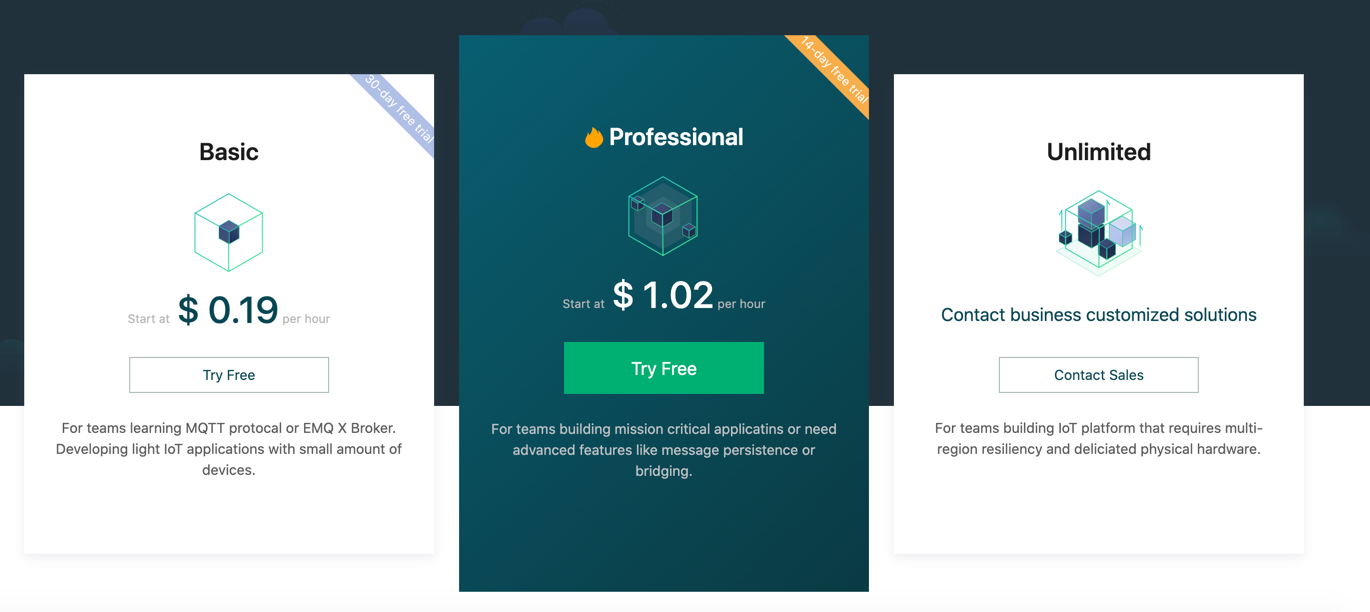
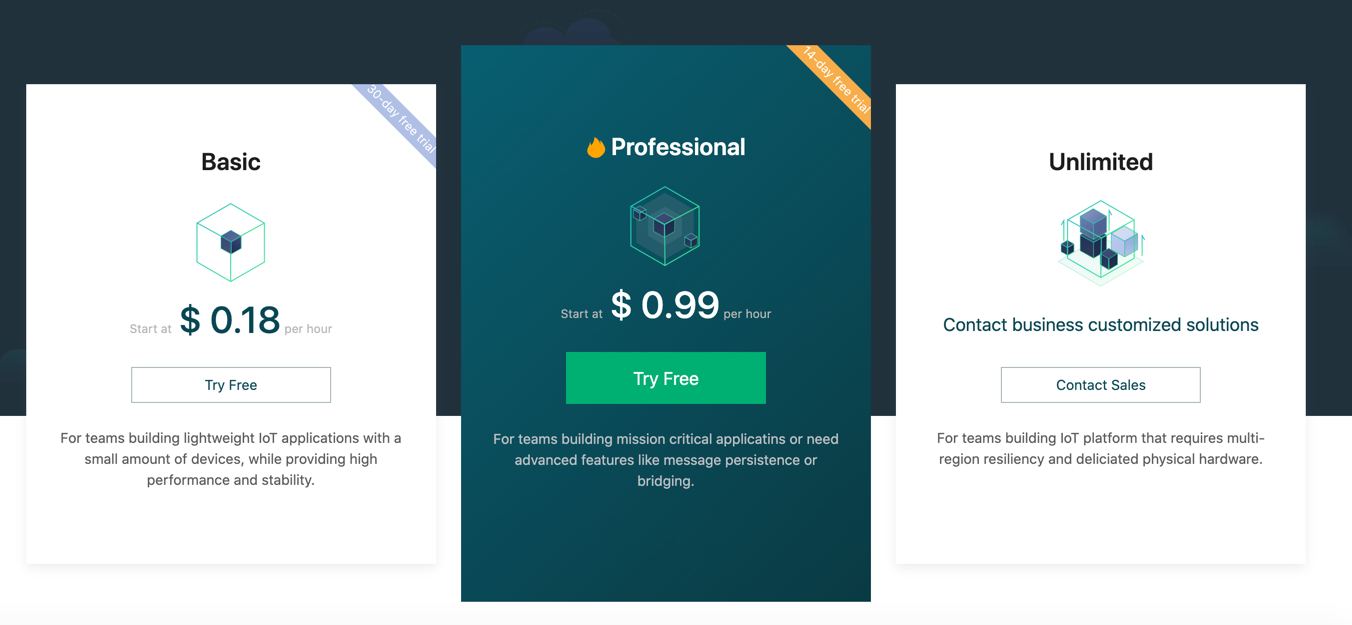
fix(docs): fix format stuff

diff --git a/en_US/README.md b/en_US/README.md
@@ -1,6 +1,6 @@
 # EMQ X Cloud Product Description
 
-EMQ X Cloud is an MQTT messaging middleware product for the IoT domain from EMQ. As the world's first fully managed MQTT 5.0 public cloud service, EMQ X Cloud provides a one-stop O&M colocation and a unique isolated environment for MQTT messaging services. In the era of the Internet of Everything, EMQ X Cloud can help you quickly build industry applications for the IoT domain and easily realize the collection, transmission, computation, and persistence of IoT data.
+EMQ X Cloud is an MQTT messaging middleware product for the IoT domain from EMQ. As the world's first fully managed MQTT 5.0 public cloud service, EMQ X Cloud provides a one-stop O&M colocation and a unique isolated environment for MQTT messaging services. In the era of the Internet of Everything, EMQ X Cloud can help you quickly build industry applications for the IoT domain and easily collect, transmit, compute, and persist IoT data.
 
 ![emqx_cloud](https://static.emqx.net/images/b7f3e53a4f6a789c698e5af8476d3e51.png)
 
@@ -18,13 +18,13 @@ In this model, EMQ X Cloud provides MQTT services to connect massive devices and
 
 ### *Data Collection*
 
-EMQ X Cloud supports device data on the cloud. With the support of a massive Topic and rule engine, data collection, filtering, transformation, calculation, and persistence can be achieved with low code.
+EMQ X Cloud supports device data on the cloud. With the support of massive topics and rule engine, data collection, filtering, transformation, calculation, and persistence can be achieved with low code.
 
 ![data collection](./_assets/data_collection.png)
 
 In this model, the MQTT service provided by EMQ X Cloud enables data collection, computation, and persistence. This model is suitable for IoT applications with data collection and persistence requirements, such as: in industrial scenarios, each IoT sensor collects real-time data to the edge gateway, uploads the data to the MQTT server through the edge gateway, and then the rule engine triggers data filtering, transformation, and simple calculation, and forwards the final result to other services or persists to the target database. EMQ X Cloud provides a variety of access solutions for different functionalities of the network, industrial, and edge devices, and supports more than 70 industrial protocols.
 
-### *Hybrid model*
+### *Hybrid Model*
 
 EMQ X Cloud provides MQTT services to support hybrid applications with two-way communication and data collection models. Through capabilities such as shared subscriptions and rule engines, data is persisted while flowing from object to object and from object to application.
 
@@ -32,7 +32,7 @@ EMQ X Cloud provides MQTT services to support hybrid applications with two-way c
 
 In this model, the MQTT service provided by EMQ X Cloud not only bridges the gap between device and device, device and application but also persists the required data so that non-real-time applications can subsequently make use of the acquired data. Typical of these applications are artificial intelligence applications where the data acquired by the terminal needs to be sent to the cloud, where the computational model running in the cloud is calculated and fed back to the terminal, such as item or face recognition applications. At the same time, a copy of the data needs to be persisted in the database for subsequent offline training and improvement of the AI computational model.
 
-## Product Plan
+## Product Plans
 
 EMQ X Cloud comes in three plans, each with multiple specifications, and we support the deployment of your own fully managed MQTT service on the world's leading public clouds
 
@@ -56,25 +56,25 @@ Most public cloud IoT platforms have multiple usage restrictions, including the 
 
 Charge per cluster instance and message traffic, not message count, and unlimited API and rule engine usage, so costs remain clear and manageable as your business scales.
 
-### Fully Managed Operations and Maintenance
+### Fully managed operations and maintenance
 
 Create a highly available MQTT clusters in minutes and start accessing devices immediately, followed by up to 7*24 technical support and operations by our global service support team and EMQ experts for the entire life cycle.
 
-### High Availability and Data Security
+### High availability and data security
 
 EMQ X Cloud Professional and Unlimited plans use a highly redundant cluster architecture to ensure high availability of services and guarantee your data security and business stability with a unique isolated environment. Each deployment cluster has its public IP, dedicated VPC network, independent EMQ X servers, and database servers, which is more secure and reliable.
 
 ### Multiple protocol access and private customization extensions
 
-Supports multiple communication protocols including MQTT, MQTT-SN, CoAP, LwM2M, and private TCP protocols, covering various industry applications; can customize private functions according to your special usage scenarios to fully meet business needs.
+Supports multiple communication protocols including MQTT, MQTT-SN, CoAP, LwM2M, and private TCP protocols, covering various industry applications. It can customize private functions according to your special usage scenarios to fully meet business needs.
 
 ### Capacity estimation and scaling
 
 Capacity is automatically estimated by the number of connections and message throughput, and the scaling plan is made through close monitoring, and the cluster size can be smoothly adjusted with the business scale.
 
-### Flexible Data Flow Solution
+### Flexible data flow solution
 
-EMQ X Cloud Professional and Unlimited plans support real-time pre-processing of device event and message data, and storage to more than ten kinds of databases and messaging systems such as MySQL, Kafka, InfluxDB, etc. on the cloud.
+EMQ X Cloud Professional and Unlimited plans support real-time pre-processing of device event and message data, and storage to more than ten kinds of databases and messaging systems such as MySQL, Kafka, InfluxDB on the cloud.
 
 ## Product Capabilities
 
@@ -82,7 +82,7 @@ EMQ X Cloud, a fully managed EMQ X access platform service, provides device acce
 
 ### Device Access
 
-Supports massive device connections to the cloud, providing stable and reliable bi-directional communication capabilities between devices and devices, and between devices and applications.
+Supports massive device connections to the cloud, providing stable and reliable two-way communication capabilities between devices and devices, and between devices and applications.
 
 - Support standard MQTT protocol (including MQTT over WebSocket), using the standard MQTT client library to connect to the cloud
 - Support CoAP, MQTT-SN, LwM2M protocol, and private TCP protocol access to meet the needs of various systems access to the cloud
@@ -134,7 +134,7 @@ EMQ X Cloud Basic and Professional plans provide rich REST APIs that allow users
 
 ### Message Storage (Rule Engine)
 
-EMQ X Cloud supports the use of a rule engine to configure rules for processing and responding to devise messages and events.
+EMQ X Cloud supports the use of the rule engine to configure rules for processing and responding to devise messages and events.
 
 The rule engine not only provides a clear and flexible "configuration-based" business integration solution, but also simplifies the business development process, improves user ease of use, and reduces the coupling between business systems and EMQ X.
 
@@ -142,7 +142,7 @@ The rule engine not only provides a clear and flexible "configuration-based" bus
 
 - **Send data to HTTP services and other MQTT services**:
   - Send data to Web services
-  - bridge data to MQTT Broker
+  - Bridge data to MQTT Broker
 
 **Professional and Unlimited plans only**
 
@@ -184,11 +184,11 @@ EMQ X Cloud has fewer usage restrictions than the public cloud IoT Hub platform.
 
 | **Limitation Description**         | **EMQ X**                                             | **Public Cloud IoT Hub**                     |
 | -------------------- | ----------------------------------------------------- | -------------------------------------- |
-| The maximum number of simultaneous online long connections  | Depends on specifications, choose from 1000-1000W+, more than 20W please send tickets for application| 1W-50W                                 |
-| Number of connections established per second     | 1W                                                    | 200-500                                |
+| The maximum number of simultaneous online long connections  | Depends on specifications, choose from 1000-10M+, more than 200K please send tickets for application| 10K-500K                                 |
+| Number of connections established per second     | 10K                                                   | 200-500                                |
 | Number of topics subscribed to by a single client   | Unlimited                                                  | 10-100                                 |
-| Single-client subscription requests per second  | Unlimited                                                  | 10-1W                                  |
-| Single-client upstream message speed | Unlimited                                                  | QoS0：30 messages/sec；QoS1：10 messages/sec；QoS2：Not supported |
+| Single-client subscription requests per second  | Unlimited                                                  | 10-10K                                  |
+| Single-client upstream message speed | Unlimited                                                  | QoS0: 30 messages/sec；QoS1: 10 messages/sec；QoS2: Not supported |
 | Single-client message downstream     | Unlimited                                                  | 50-100 messages/sec                          |
 | Single client throughput bandwidth per second | Unlimited                                                  | 512-1024KB                             |
 | Single message length         | Default 1024KB 1-256MB. Adjustable on request                      | 256KB                                  |

diff --git a/en_US/faq.md b/en_US/faq.md
@@ -4,12 +4,7 @@
 
 ### What's EMQ X Cloud？
 
-EMQ X Cloud is an online SaaS service of EMQ X provided by the EMQ team.
-
-In the past few years, EMQ has provided mature MQTT IoT messaging middleware and IoT platform related support services to many customers. During this period, we have accumulated a wealth of practical experience in IoT platform design, operation and maintenance management. Based on that, we launched the IoT platform public cloud service EMQ X Cloud, providing one-stop operation and maintenance management, and EMQ X access platform service with a unique isolation environment.
-
-EMQ X Cloud provides safe and reliable two-way communication capabilities for applications and devices, and provides other value-added capabilities on the basis of supporting large-scale clusters and massive device connection, such as device management, rule engine, data persistence, and Kafka data bridging. It covers various IoT application scenarios and retains customization and expansion capabilities.
-
+EMQ X Cloud is an MQTT messaging middleware product for the IoT domain from EMQ. As the world's first fully managed MQTT 5.0 public cloud service, EMQ X Cloud provides a one-stop O&M colocation and a unique isolated environment for MQTT messaging services. In the era of the Internet of Everything, EMQ X Cloud can help you quickly build industry applications for the IoT domain and easily realize the collection, transmission, computation, and persistence of IoT data.
 ### What is EMQ X Cloud deployment?
 
 The deployment is an EMQ X Enterprise cluster hosted by EMQ X Cloud
@@ -75,24 +70,20 @@ For the configuration method, please refer to [configure TLS/SSL](deployments/se
 You can use the rule engine to connect with your existing functions. For details, see [Rule Engine](rule_engine/introduction.md)
 
 ## Billing
+
 ### How to bill?
 
 EMQ X Cloud charges based on the cluster instance specifications and message transmission network traffic, not the number of messages, and does not limit the use of API and rule engines.
 
 For detailed billing rules, you can view [Product Pricing](pricing.md)
 
-### How to payment?
+### How to pay?
 
-In the EMQ X Cloud console, click the `Payment` button at the account balance of `Billing` -> `Overview`, and complete the monthly bill payment.
-
-Currently, EMQ X Cloud supports `PayPal` to complete the monthly bill payment.
+EMQ X Cloud supports credit card payment, for more payment options please contact us.
 
 ### How to get the credits?
 
 If you need to experience all the functions of the Standard Deployment, you can submit a [ticket](contact.md) or email (cloud@emqx.io) to get in touch with us, and we will issue a certain amount of creditss based on your business needs
 
-### Does it support annual and monthly payment?
-
-It is not supported at present.
 
 Please pay attention to the update of EMQ x cloud.

diff --git a/en_US/pricing.md b/en_US/pricing.md
@@ -16,7 +16,7 @@ EMQ X Cloud is available in three plans: Basic, Professional, and Unlimited.
 
 ## Billing Items
 
-EMQ X Cloud is billed by product plan, instance specification, and messaging network traffic. There is no limit to the number of messages, API calls, and rules engine usage. You can choose the product and specification to suit your business, ensuring that costs remain clear and manageable as your business expands.
+EMQ X Cloud is billed by product plan, instance specification, and messaging network traffic. There is no limit to the number of messages, API calls, and rule engine usage. You can choose the product and specification to suit your business, ensuring that costs remain clear and manageable as your business expands.
 
 EMQ X Cloud's billing consists of two components.
 
@@ -61,40 +61,40 @@ EMQ X Cloud will charge your credit card on the 1st of each month for the previo
    <tr>
       <td rowspan="3">Basic</td>
       <td>1,000 connections / Up to 1,000 TPS</td>
-      <td>from $ 0.19/hr</td>
+      <td>from $ 0.18/hr</td>
       <td rowspan="3">100G/month</td>
       <td rowspan="7">$ 0.15/GB</td>
    </tr>
    <tr>
       <td>5,000 connections / Up to 5,000 TPS</td>
-      <td>from $ 0.55/hr</td>
+      <td>from $ 0.5/hr</td>
    </tr>
    <tr>
       <td>1,0000 connections / Up to 5,000 TPS</td>
-      <td>from $ 1.02/hr </td>
+      <td>from $ 0.88/hr </td>
    </tr>
    <tr>
       <td rowspan="5">Professional</td>
       <td>5,000 connections / Up to 10,000 TPS</td>
-      <td>from $ 1.02/hr </td>
+      <td>from $ 0.99/hr </td>
       <td rowspan="2">100G/month</td>
    </tr>
    <tr>
       <td>10,000 connections / Up to 20,000 TPS</td>
-      <td>from $ 1.79/hr</td>
+      <td>from $ 1.49/hr</td>
    </tr>
    <tr>
       <td>50,000 connections / Up to 50,000 TPS</td>
-      <td>from $ 4.28/hr</td>
+      <td>from $ 3.99/hr</td>
       <td rowspan="2">1T/month</td>
    </tr>
    <tr>
       <td>100,000 connections / Up to 100,000 TPS</td>
-      <td>from $ 7.99/hr</td>
+      <td>from $ 7.19/hr</td>
    </tr>
    <tr>
       <td>>100,000 connections</td>
-      <td>from $ 7.99/hr</td>
+      <td>from $ 7.19/hr</td>
       <td colspan="2" align="center">Contact sales</td>
    </tr>
    <tr>

diff --git a/en_US/deployments/create_deployment.md b/en_US/deployments/create_deployment.md
@@ -11,9 +11,9 @@ In this tutorial, you will learn how to create a new EMQ X Cloud deployment. To 
 2. Click the **New** button in the upper right corner to enter the deployment price estimation page.
 3. Choose the deployment of the corresponding specifications according to your needs.
    * Choose cloud platform: EMQ X Cloud temporarily supports AWS. If you have other cloud service provider requirements, you can submit a [ticket](../contact.md) or email (cloud@emqx.io) )  us.
-   * Select region: EMQ X Cloud temporarily supports AWS (US East(N.Virginia), US West(Oregon), EU(Ireland), Asia Pacific(Singapore)). If you have other regional requirements, you can submit [Ticket](../contact.md) Or contact us via email (cloud@emqx.io).
+   * Select region: EMQ X Cloud temporarily supports AWS (US East(N.Virginia), US West(Oregon), EU(Ireland), Asia Pacific(Singapore)). If you have other regional requirements, you can submit [tickets](../contact.md) or contact us via email (cloud@emqx.io).
    * Select the maximum number of connections: For the maximum number of client connections allowed, you can increase or decrease the maximum number of connections through [Upgrade Deployment Specifications](./upgrade_deployment.md) later.
-   * Select peak value of TPS: the total number of messages sent and received per second of deployment. You can increase and decrease the message uplink and downlink TPS through [Upgrade Deployment Specifications](./upgrade_deployment.md) later.
+   * Select peak value of TPS: the total number of messages sent and received per second of deployment. You can increase and decrease the message upstream and downstream TPS through [Upgrade Deployment Specifications](./upgrade_deployment.md) later.
 4. Check the deployment information in the **Confirm** page.
 5. Click **Next** and agree to the EMQ X Cloud Terms of Service. You will be redirected to the console deployment details page.
 6. Wait 5 ~ 10 minutes until the deployment status is **running**.

diff --git a/en_US/deployments/auth_and_acl.md b/en_US/deployments/auth_and_acl.md
@@ -17,15 +17,15 @@ Enter the username and password in the input box at the top of the page, and cli
 
 ### Batch Add Authentication Information
 Certification information can be imported in bulk through CSV files.
-1. Click `import` button
-2. Download the template
-3. Fill in the authentication information and submit the file
+
+1. Download the template
+2. Fill in the authentication information and submit the file
 
    The sample template file is shown below:
 
    ![auth](./_assets/auth_ex.png)
 
-4. Click `import` button
+3. Click `import` button
 
    ![auth](./_assets/import_auth.png)
 
@@ -69,9 +69,10 @@ Same process for `Username` and `All Users`.
 ACL information can be imported in bulk through CSV files.
 
 > `All Users` are not supported
-1. Click `import` button
-2. Download the template
-3. Fill in the ACL information and submit the file
+
+1. Download the template
+   
+2. Fill in the ACL information and submit the file
 
    The sample template file for `username` is shown below:
 
@@ -82,7 +83,7 @@ ACL information can be imported in bulk through CSV files.
    ![acl](./_assets/clientid.png)
 
 
-4. Click `import` button
+3. Click `import` button
 
    ![acl](./_assets/import_auth.png)
 

diff --git a/en_US/quick_start/create_free_trial.md b/en_US/quick_start/create_free_trial.md
@@ -5,8 +5,8 @@ For first-time EMQ X Cloud customers, we have an opportunity for you to create a
 * Free trial up to 30 days.
 
   > To extend your free trial, you can submit a [ticket](../contact.md) or contact us by email to get in touch with us.
-* 
-Maximum 1000 client connections for the basic plan, maximum 5000 client connections for professional plan
+
+* Maximum 1000 client connections for the basic plan, maximum 5000 client connections for professional plan
 
 * 100 GB free traffic per month.
 
@@ -14,7 +14,7 @@ Maximum 1000 client connections for the basic plan, maximum 5000 client connecti
 
 * Support for MQTT, WebSockets, MQTT over TLS/SSL, Websockets over TLS protocol connections.
 
-  > For additional protocol support, you can submit a [ticket](../contact.md). /contact.md) or send email (cloud@emqx.io) to get in touch with us.
+  > For additional protocol support, you can submit a [ticket](../contact.md) or send email (cloud@emqx.io) to get in touch with us.
 
 * The basic plan does not support custom [TLS/SSL](../deployments/security_features_and_settings/tls_ssl.md) and [VPC Peering](../deployments/security_features_and_settings/vpc_peering.md).
 

diff --git a/en_US/deployments/calculator.md b/en_US/deployments/calculator.md
@@ -27,7 +27,7 @@ You can select cloud platform, region, and specifications to get the hourly pric
 
 ## Supported Cloud Service Providers and Regions
 
-EMQ X Cloud currently supports cloud service providers: AWS Cloud. If you need other cloud service providers or regions, you can submit a [tickets](../contact.md) or email(cloud@emqx.io) to get in touch with us.
+EMQ X Cloud currently supports cloud service providers: AWS Cloud. If you need other cloud service providers or regions, you can submit [tickets](../contact.md) or email(cloud@emqx.io) to contact us.
 
 | Platform | Region                                                       |
 | -------- | ------------------------------------------------------------ |

diff --git a/en_US/deployments/rule_engine.md b/en_US/deployments/rule_engine.md
@@ -12,7 +12,7 @@ In EMQ X Cloud, using the rule engine has the following requirements and restric
 - Professional Deployment
     - The resource only supports intranet access, so you need to configure VPC peering before creating the resource and open the security group.
 
-Translated with www.DeepL.com/Translator (free version)
+
 ## [Rule Management](../rule_engine/rule.md)
 
 The rule engine not only provides a clear and flexible "configurable" business integration solution, simplifies the business development process, improves user usability, and reduces the coupling degree between the business system and EMQ X, but also provides a superior infrastructure for EMQ X's proprietary functionality customization.

diff --git a/en_US/deployments/upgrade_deployment.md b/en_US/deployments/upgrade_deployment.md
@@ -1,8 +1,4 @@
 # Upgrade service plan
 
-::: danger
-This feature is unavailable in the basic plan
-:::
-
-EMQ X Cloud supports smoothly scaling deployment specifications without interrupting business connections. Regarding how to scale deployment specifications, you can get in touch with us via [ticket](../contact.md) or email (cloud@emqx.io)
+EMQ X Cloud supports smoothly scaling deployment specifications without interrupting business connections. Regarding how to scale deployment specifications, you can get in touch with us via [tickets](../contact.md) or email (cloud@emqx.io)
 

diff --git a/en_US/deployments/view_deployment.md b/en_US/deployments/view_deployment.md
@@ -18,7 +18,7 @@ Here you can view the following deployment information:
 - Connection port:
 
   - Professional deployment port: **1883**(tcp), **8083**(ws) are enabled by default, you can enable **8883**(tls) and **8084**(wss)through [Configuring TLS/SSL](security_features_and_settings/tls_ssl.md)
-  - Basic deployment port: open **11xxx(mqtt) **, **11xxx(mqtts)**,  **8083(ws)**, **8084(wss)** by default
+  - Basic deployment port: open **11xxx(mqtt)**, **11xxx(mqtts)**,  **8083(ws)**, **8084(wss)** by default
 
 ![base_info](./_assets/deployment_info.png)
 

diff --git a/en_US/contact.md b/en_US/contact.md
@@ -14,12 +14,4 @@ You can enter the ticket system by following the steps below:
 1. Click `New` in the upper right corner
 2. Enter `Subject` and `Description` in the pop-up page
 
-![](./_assets/creat_tickets01.png)
-
-![](./_assets/creat_tickets02.png)
-
-### View tickets
-
-You can click `Status` to filter the status of the ticket.
-
-![tickets status](./_assets/check_tickets.png)
+![](./_assets/create_tickets02.png)

diff --git a/en_US/release_notes.md b/en_US/release_notes.md
@@ -1,5 +1,11 @@
 # Version release
 
+## 2021-5-13
+* New Pricing Plans
+
+## 2021-3-15
+* New UI design
+
 ## 2020-12-21
 * Support the creation of 180-day free trial
 
